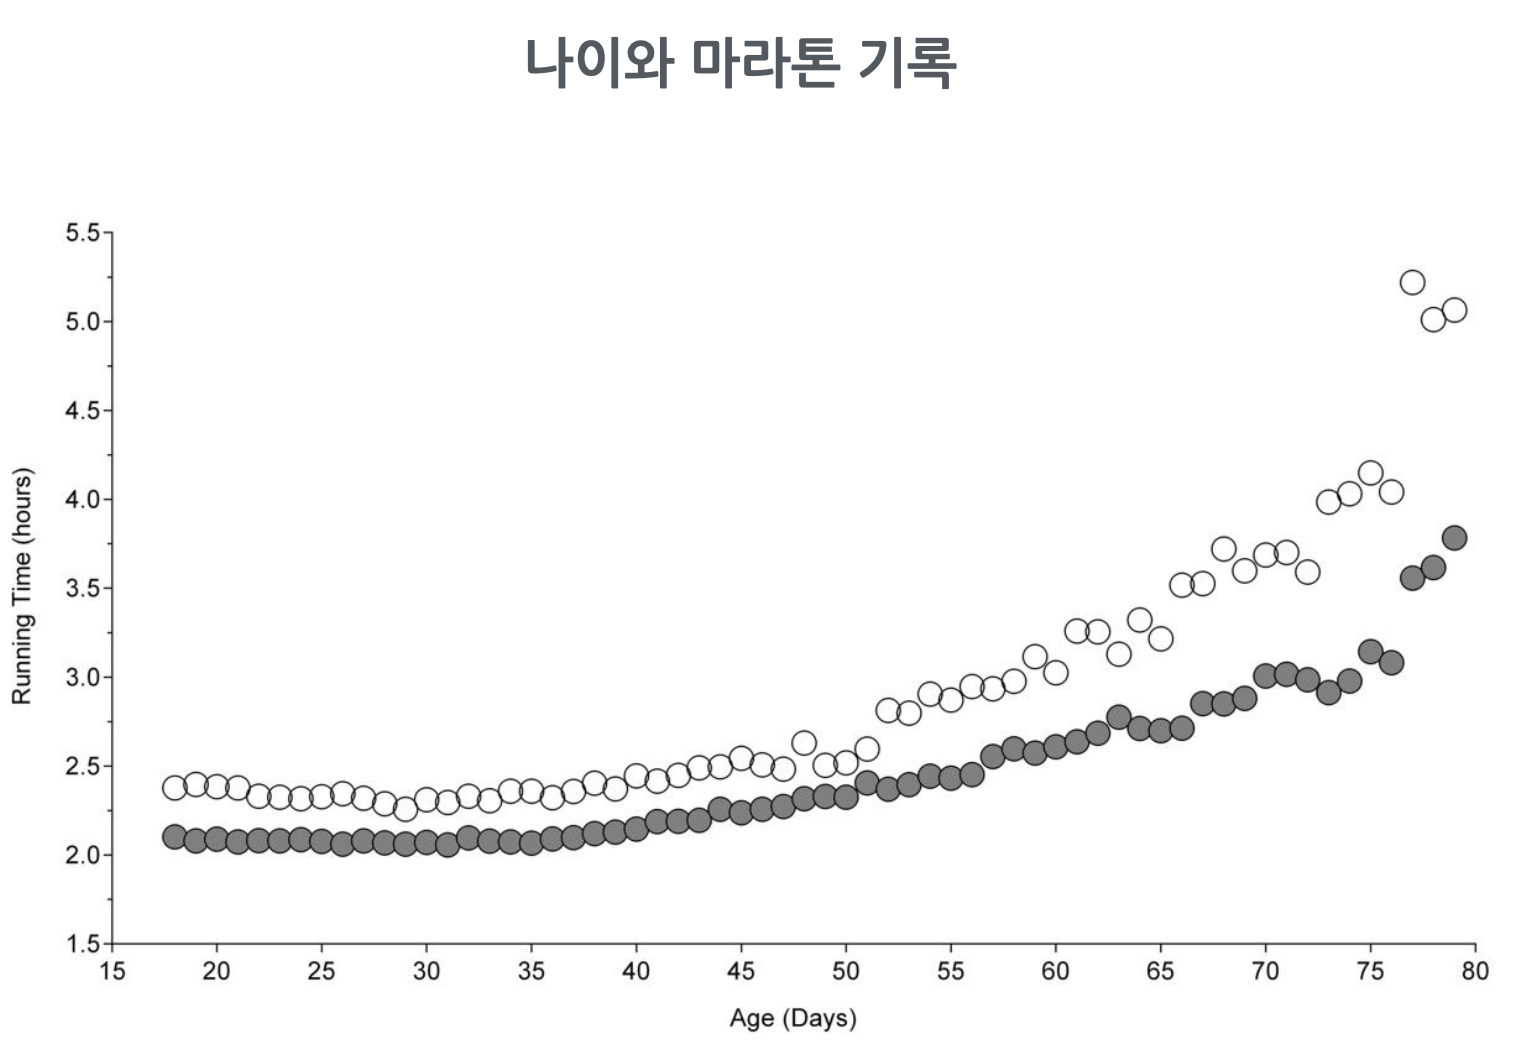
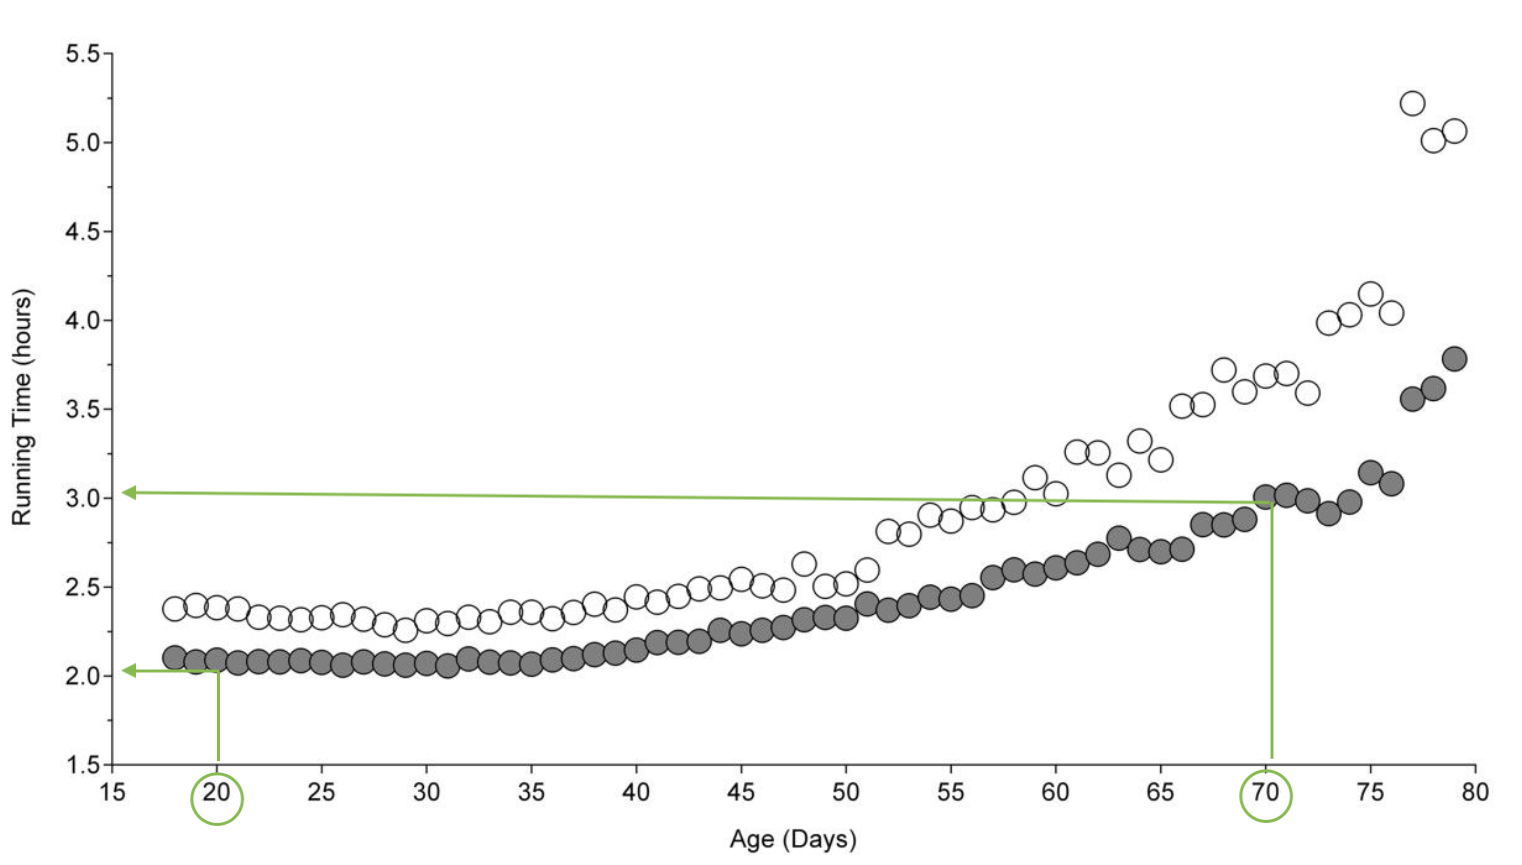
d

diff --git a/docs/contents/statistics.html b/docs/contents/statistics.html
@@ -7,7 +7,7 @@
 <meta name="viewport" content="width=device-width, initial-scale=1.0, user-scalable=yes">
 
 <meta name="author" content="Sungkyun Cho">
-<meta name="dcterms.date" content="2025-04-23">
+<meta name="dcterms.date" content="2025-04-24">
 
 <title>Statistics –  Intro to Data Science</title>
 <style>
@@ -370,7 +370,7 @@ window.Quarto = {
     <div>
     <div class="quarto-title-meta-heading">Published</div>
     <div class="quarto-title-meta-contents">
-      <p class="date">April 23, 2025</p>
+      <p class="date">April 24, 2025</p>
     </div>
   </div>
   
@@ -431,7 +431,7 @@ window.Quarto = {
 <h2 class="anchored" data-anchor-id="simple-regressioncorrelation">Simple Regression/Correlation</h2>
 <p>두 변수 간의 correlation(상관관계)는 두 변수 간의 영향관계에 대한 방향성을 전제하지 않는 반면,<br>
 회귀분석은 (보통) 한 변수가 다른 변수에 영향 미친다는 것을 전제로 하고, 그 영향의 형태와 크기를 분석.</p>
-<p>예측변수가 한개인 회귀분석: simple Regression</p>
+<p>예측변수가 한개인 회귀분석: simple regression</p>
 <ol type="1">
 <li>두 변수 간의 관계(association)을 파악: <span class="math inline">\(Y=f(X)=b_0 + b_1X\)</span></li>
 <li>그 관계의 크기(strength)를 측정
@@ -457,7 +457,7 @@ window.Quarto = {
 
 </div>
 <div class="columns quarto-layout-cell" style="flex-basis: 47.4%;justify-content: center;">
-<p><strong>Multiple correlation coefficient: <span class="math inline">\(R\)</span></strong></p><p>Extented correlation: 예측치와 관측치의 pearson’s correlation</p><ul>
+<p><strong>Multiple correlation coefficient: <span class="math inline">\(R\)</span></strong></p><p>Extented correlation: 예측치와 관측치의 Pearson’s correlation, <span class="math inline">\(r(Y, \widehat Y)\)</span></p><ul>
 <li><span class="math inline">\(R\)</span>을 제곱한 <span class="math inline">\(R^2\)</span>가 설명력의 정도를 나타냄</li>
 </ul><p><a href="images/multiple-R.png" class="lightbox" data-gallery="quarto-lightbox-gallery-2"><img src="images/multiple-R.png" class="img-fluid" width="450"></a></p>
 </div>
@@ -485,7 +485,7 @@ window.Quarto = {
 <div>
 
 </div>
-<div id="cell-7" class="cell quarto-layout-panel" data-layout="[[2, 1]]" data-execution_count="66">
+<div id="cell-7" class="cell quarto-layout-panel" data-execution_count="66" data-layout="[[2, 1]]">
 <div class="quarto-layout-row">
 <div class="quarto-layout-cell" style="flex-basis: 66.7%;justify-content: center;">
 <p><img src="statistics_files/figure-html/cell-5-output-1.png" class="img-fluid" width="670"></p>
@@ -495,7 +495,7 @@ window.Quarto = {
 <div>
 
 </div>
-<div id="cell-9" class="cell quarto-layout-panel" data-layout="[[2, 1]]" data-execution_count="116">
+<div id="cell-9" class="cell quarto-layout-panel" data-execution_count="116" data-layout="[[2, 1]]">
 <div class="quarto-layout-row">
 <div class="quarto-layout-cell" style="flex-basis: 66.7%;justify-content: center;">
 <p><img src="statistics_files/figure-html/cell-7-output-1.png" class="img-fluid" width="667"></p>
@@ -546,7 +546,7 @@ Important
 <div>
 
 </div>
-<div id="cell-17" class="cell quarto-layout-panel" data-layout="[[1.5, 1.5, 0.5]]" data-execution_count="10">
+<div id="cell-17" class="cell quarto-layout-panel" data-execution_count="10" data-layout="[[1.5, 1.5, 0.5]]">
 <div class="quarto-layout-row">
 <div class="quarto-layout-cell" style="flex-basis: 42.9%;justify-content: center;">
 <p><img src="statistics_files/figure-html/cell-12-output-1.png" class="img-fluid" width="490"></p>
@@ -563,9 +563,19 @@ Important
 <li>나이를 감안한 마라톤 실력?</li>
 <li>다시 말하면, 나이와는 <strong>무관한/독립적인</strong> 마라톤 능력에 대해 말하고자 함</li>
 <li>이는 동일한 나이의 사람들로만 제한해서 마라톤 기록을 비교하는 것이 공평한 능력의 비교라고 말하는 것과 같은 이치임</li>
+<li>아래 그림에서 20세라면 보통 2시간 정도, 70세라면 보통 3시간 정도가 전형적인 기록이기 때문에, 이를 고려하여 기록을 조정할 수 있음;
+<ul>
+<li>가령, 70세 노인의 기록 2.5시간은 -0.5시간(=3-2.5); 나이로는 설명/예측되지 못하는 정도</li>
+<li>20세 청년의 기록 2.5시간은 +0.5시간(=2.5-2); 나이로는 설명/예측되지 못하는 정도</li>
+</ul></li>
 </ul>
-<p><img src="images/marathon.png" class="img-fluid" width="450"></p>
 <div style="line-height: 1.5em; font-size: .9em">
+<div class="quarto-figure quarto-figure-left">
+<figure class="figure">
+<figcaption>남녀별 연령에 따른 평균 마라톤 기록</figcaption>
+<p><img src="images/marathon.png" class="img-fluid figure-img" width="500"></p>
+</figure>
+</div>
 <p>Source: https://doi.org/10.1186/2052-1847-6-31</p>
 </div>
 </section>
@@ -613,7 +623,7 @@ Important
 <div>
 
 </div>
-<div id="cell-25" class="cell quarto-layout-panel" data-layout-ncol="3" data-execution_count="30">
+<div id="cell-25" class="cell quarto-layout-panel" data-execution_count="30" data-layout-ncol="3">
 <div class="quarto-layout-row">
 <div class="quarto-layout-cell" style="flex-basis: 33.3%;justify-content: flex-start;">
 <pre><code>Intercept   43658.59
@@ -696,7 +706,7 @@ Model 3: <span class="math inline">\(\widehat{salary} = \$983\:time + \$122\:pub
 <div>
 
 </div>
-<div class="quarto-layout-panel" data-layout="[50, -2, 48]" style="line-height: 1.5em; font-size: .9em">
+<div class="quarto-layout-panel" style="line-height: 1.5em; font-size: .9em" data-layout="[50, -2, 48]">
 <div class="quarto-layout-row">
 <div class="quarto-layout-cell" style="flex-basis: 50.0%;justify-content: center;">
 <table class="caption-top table">
@@ -786,7 +796,7 @@ Important
 <div>
 
 </div>
-<div id="cell-30" class="cell quarto-layout-panel" data-layout="[1, 1]" data-execution_count="17">
+<div id="cell-30" class="cell quarto-layout-panel" data-execution_count="17" data-layout="[1, 1]">
 <div class="quarto-layout-row">
 <div class="quarto-layout-cell" style="flex-basis: 50.0%;justify-content: center;">
 <p><img src="statistics_files/figure-html/cell-18-output-1.png" class="img-fluid" width="630"></p>
@@ -800,7 +810,7 @@ Important
 <div>
 
 </div>
-<div id="cell-32" class="cell quarto-layout-panel" data-layout="[3, 1]" data-execution_count="87">
+<div id="cell-32" class="cell quarto-layout-panel" data-execution_count="87" data-layout="[3, 1]">
 <div class="quarto-layout-row">
 <div class="quarto-layout-cell" style="flex-basis: 75.0%;justify-content: center;">
 <p><img src="statistics_files/figure-html/cell-19-output-1.png" class="img-fluid" width="668"></p>

diff --git a/docs/contents/model-basic.html b/docs/contents/model-basic.html
@@ -7,7 +7,7 @@
 <meta name="viewport" content="width=device-width, initial-scale=1.0, user-scalable=yes">
 
 <meta name="author" content="Sungkyun Cho">
-<meta name="dcterms.date" content="2025-04-23">
+<meta name="dcterms.date" content="2025-04-24">
 
 <title>Model Basics –  Intro to Data Science</title>
 <style>
@@ -349,7 +349,7 @@ window.Quarto = {
     <div>
     <div class="quarto-title-meta-heading">Published</div>
     <div class="quarto-title-meta-contents">
-      <p class="date">April 23, 2025</p>
+      <p class="date">April 24, 2025</p>
     </div>
   </div>
   
@@ -490,7 +490,7 @@ window.Quarto = {
 <div>
 
 </div>
-<div id="cell-12" class="cell quarto-layout-panel" data-execution_count="8" data-layout="[[10, 10, 4]]">
+<div id="cell-12" class="cell quarto-layout-panel" data-layout="[[10, 10, 4]]" data-execution_count="8">
 <div class="quarto-layout-row">
 <div class="cell-output cell-output-stdout quarto-layout-cell" style="flex-basis: 41.7%;justify-content: flex-start;">
 <pre><code>1000 people, each 16 steps tossing a coin: 
@@ -611,7 +611,7 @@ The goal of a model is not to uncover truth, but to discover a simple approximat
 <div>
 
 </div>
-<div id="cell-16" class="cell quarto-layout-panel" data-execution_count="7" data-layout="[[2, 4, 1]]">
+<div id="cell-16" class="cell quarto-layout-panel" data-layout="[[2, 4, 1]]" data-execution_count="7">
 <div class="quarto-layout-row">
 <div class="quarto-layout-cell" style="flex-basis: 28.6%;justify-content: flex-start;">
 <pre><code>     x     y
@@ -639,7 +639,7 @@ The goal of a model is not to uncover truth, but to discover a simple approximat
 <div>
 
 </div>
-<div id="cell-20" class="cell quarto-layout-panel" data-execution_count="26" data-layout="[[4, 2, 1]]">
+<div id="cell-20" class="cell quarto-layout-panel" data-layout="[[4, 2, 1]]" data-execution_count="26">
 <div class="quarto-layout-row">
 <div class="quarto-layout-cell" style="flex-basis: 57.1%;justify-content: center;">
 <p><img src="model-basic_files/figure-html/cell-14-output-1.png" class="img-fluid" width="605"></p>
@@ -724,7 +724,7 @@ Model evaluation
 <div>
 
 </div>
-<div id="cell-32" class="cell quarto-layout-panel" data-execution_count="32" data-layout="[[3, 1]]">
+<div id="cell-32" class="cell quarto-layout-panel" data-layout="[[3, 1]]" data-execution_count="32">
 <div class="quarto-layout-row">
 <div class="quarto-layout-cell" style="flex-basis: 75.0%;justify-content: center;">
 <p><img src="model-basic_files/figure-html/cell-20-output-1.png" class="img-fluid" width="591"></p>
@@ -738,7 +738,7 @@ Model evaluation
 <div>
 
 </div>
-<div id="cell-34" class="cell quarto-layout-panel" data-execution_count="33" data-layout="[[3, 1]]">
+<div id="cell-34" class="cell quarto-layout-panel" data-layout="[[3, 1]]" data-execution_count="33">
 <div class="quarto-layout-row">
 <div class="quarto-layout-cell" style="flex-basis: 75.0%;justify-content: center;">
 <p><img src="model-basic_files/figure-html/cell-21-output-1.png" class="img-fluid" width="599"></p>
@@ -761,7 +761,7 @@ Model evaluation
 <div>
 
 </div>
-<div id="cell-38" class="cell quarto-layout-panel" data-execution_count="37" data-layout="[[4, 3]]">
+<div id="cell-38" class="cell quarto-layout-panel" data-layout="[[4, 3]]" data-execution_count="37">
 <div class="quarto-layout-row">
 <div class="quarto-layout-cell" style="flex-basis: 57.1%;justify-content: center;">
 <p><img src="model-basic_files/figure-html/cell-23-output-1.png" class="img-fluid" width="605"></p>
@@ -1033,7 +1033,7 @@ Non-constant variance(왼쪽), Poisson distribution(오른쪽)</p>
 </ul>
 <p>전통적으로는 분포에 대한 가정으로부터 이론적으로 불확실성을 추론했으나,<br>
 현대적인 접근으로 resampling 방식의 bootstrapping이나 sample을 traing/test set으로 나누는 cross-validation 등을 통해 시뮬레이션을 통해 불확실성을 추정할 수 있음</p>
-<p>Bayesian 방식에서는 모집단의 분포에 대한 가정없이, 관찰된 데이터만으로 파라미터에 대한 분포(posterior predictive distribution)를 불확실성에 대해 추정하는 방식도 있음; 앞서 지구의 바다/육지의 비율에 대한 분포의 예측 참고</p>
+<p>Bayesian 방식에서는 모집단의 분포에 대한 가정없이, 관찰된 데이터만으로 파라미터에 대한 분포(posterior predictive distribution)로 불확실성에 대해 추정하는 방식도 있음; 앞서 지구의 바다/육지의 비율에 대한 분포의 예측 참고</p>
 <p>반대로, machine learning에서는 특정 action 혹은 decision-making을 하는 것이 중요한 경우가 많아, 불확실성에 대한 고려가 적은 경향이 있음; 가령, 불확실성이 크던 작던 간에, 실용적인 관점에서 구체적으로 가격을 예측하거나, 질병 여부를 예측하길 기대함. 어떤 질병에 걸렸을 확률이 0.8로 예측되는 경우라도 사실은 불확실성을 고려하면 그 확률은 가령 0.7 ~ 0.9 사이일 수 있음.</p>
 <div id="cell-54" class="cell" data-execution_count="59">
 <details class="code-fold">
